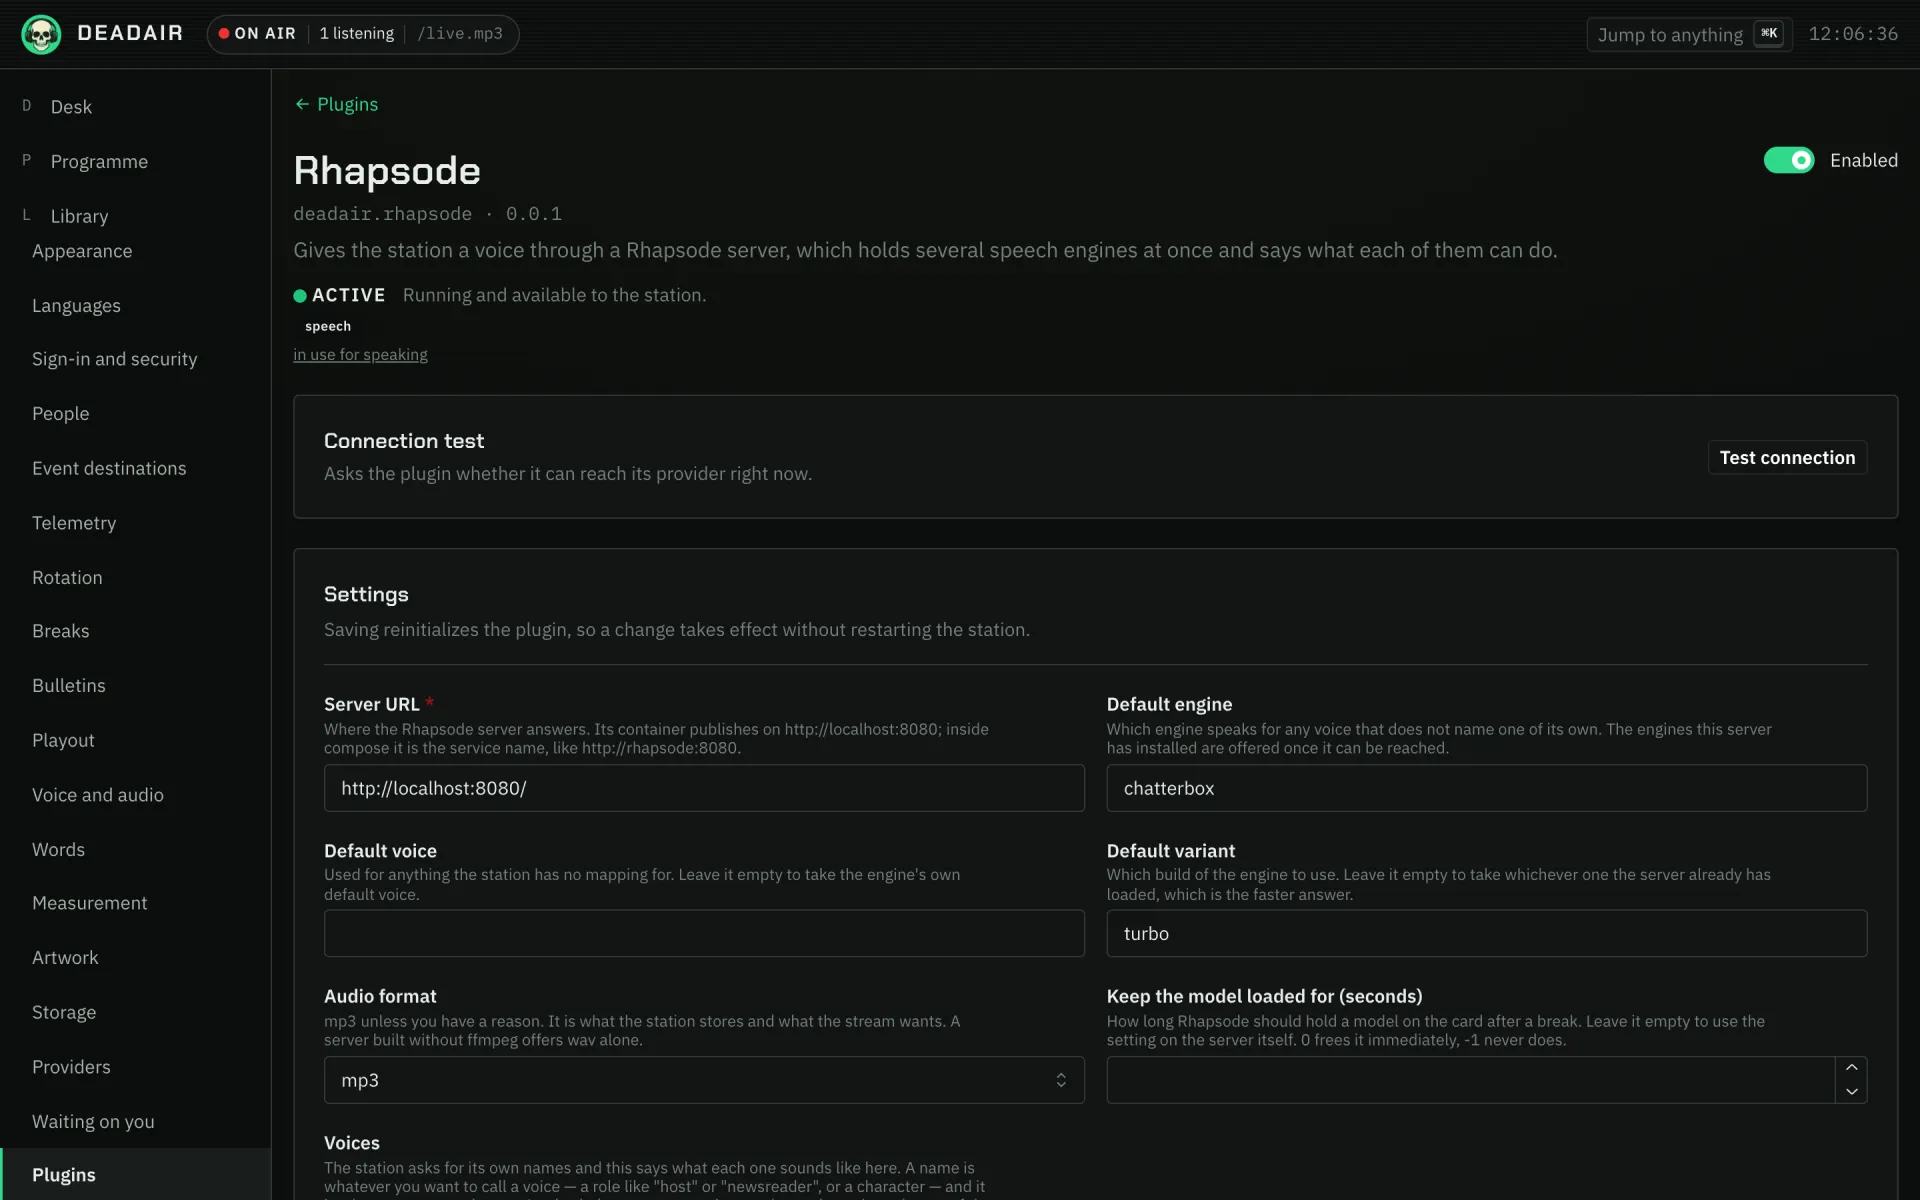
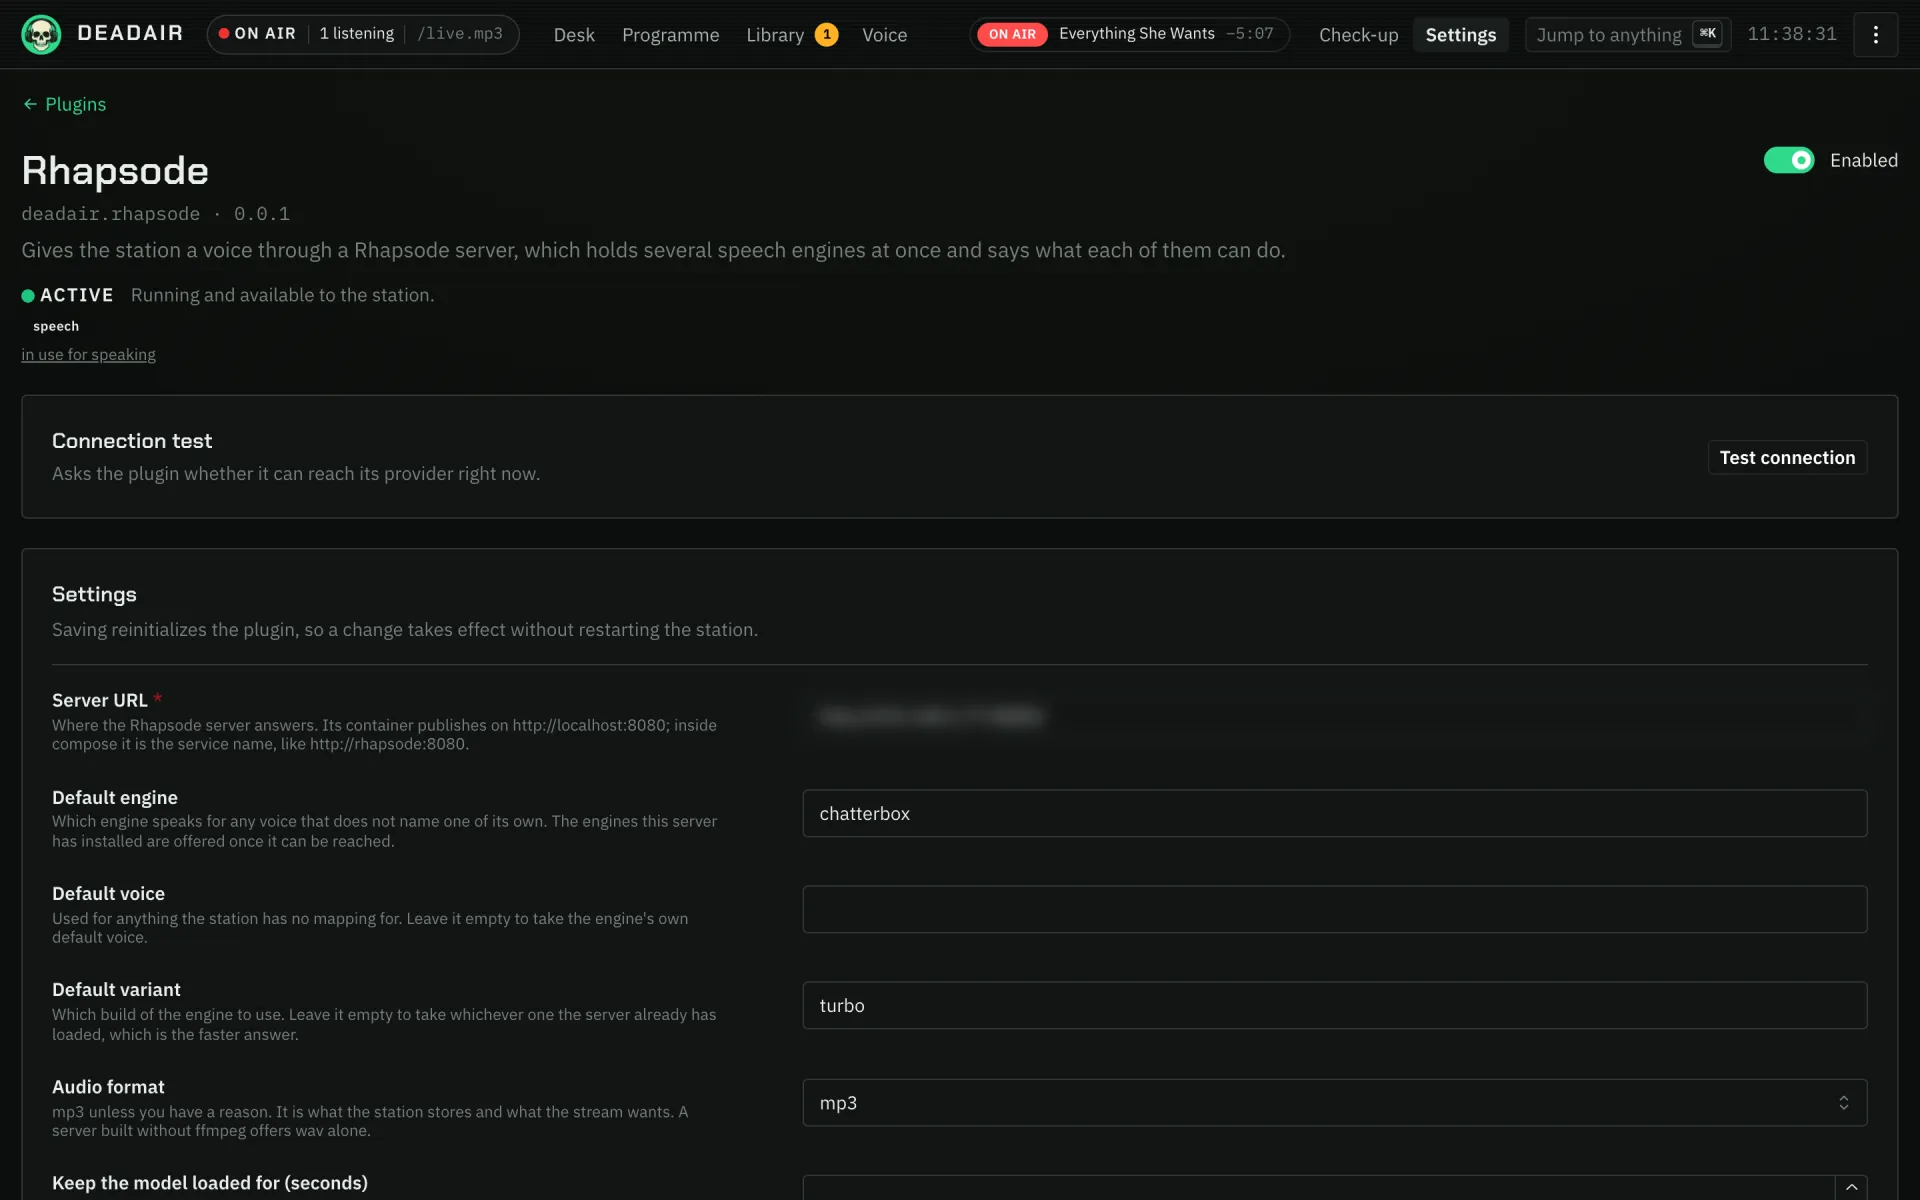
Retake the tutorials' console pictures on the redesigned console
Every console picture the tutorials use predated the header-tab shell, so all of them showed the
left rail, and the Desk, Characters and Settings pictures showed layouts that have since changed.
They are taken again from the live station: the Desk two with cover art blurred, the Language
model and Rhapsode pages with the server addresses blurred, since those are the station's own
network, and Characters in Studio White as well so the home page's pair matches. Specials gets a
capture target of its own, the speaker menu's target presses its new label, and the Rhapsode and
Bulletins captions now say what is further down a page that lays out one field per row.

diff --git a/apps/site/docs/tutorials/making-a-voice.md b/apps/site/docs/tutorials/making-a-voice.md
@@ -91,8 +91,8 @@ empty to use whichever Chatterbox model the server has loaded, or name one (`tur
 `multilingual`). Turbo performs laughs and sighs; the other two have dials for how theatrical a voice
 is, and no build does both.
 
-![The Rhapsode plugin: its server, default engine and variant, and the start of the Voices table](/img/console/plugins.rhapsode.webp)
-*Fig. 1. **Settings → Plugins → Rhapsode**. The **Voices** table starts at the bottom of the page.*
+![The Rhapsode plugin: its server, default engine, voice and variant, and the audio format](/img/console/plugins.rhapsode.webp)
+*Fig. 1. **Settings → Plugins → Rhapsode**. The **Voices** table is further down.*
 
 If the character's **Voice** is already `latenight`, that is all. Otherwise set it on the character.
 **Voice → Voices** plays a sample of every station voice through the same path a break airs on, so

diff --git a/apps/site/docs/tutorials/news-and-weather.md b/apps/site/docs/tutorials/news-and-weather.md
@@ -42,8 +42,8 @@ newest first. These are what a bulletin is written from.
 
 Open **Settings → Bulletins**.
 
-![Settings, Bulletins: headlines, the feeds a bulletin reads, and the weather settings](/img/console/settings.bulletins.webp)
-*Fig. 1. **Settings → Bulletins**. The weather settings from step 4 are on the same page.*
+![Settings, Bulletins: headlines in a bulletin, how old a story may be, and the feeds a bulletin reads](/img/console/settings.bulletins.webp)
+*Fig. 1. **Settings → Bulletins**. The weather settings from step 4 are further down the same page.*
 
 **The feeds a bulletin reads** is empty to begin with, which means every feed, newest first. That is
 fine with one or two feeds. With more, a newsroom that posts twenty times a day crowds out one that
